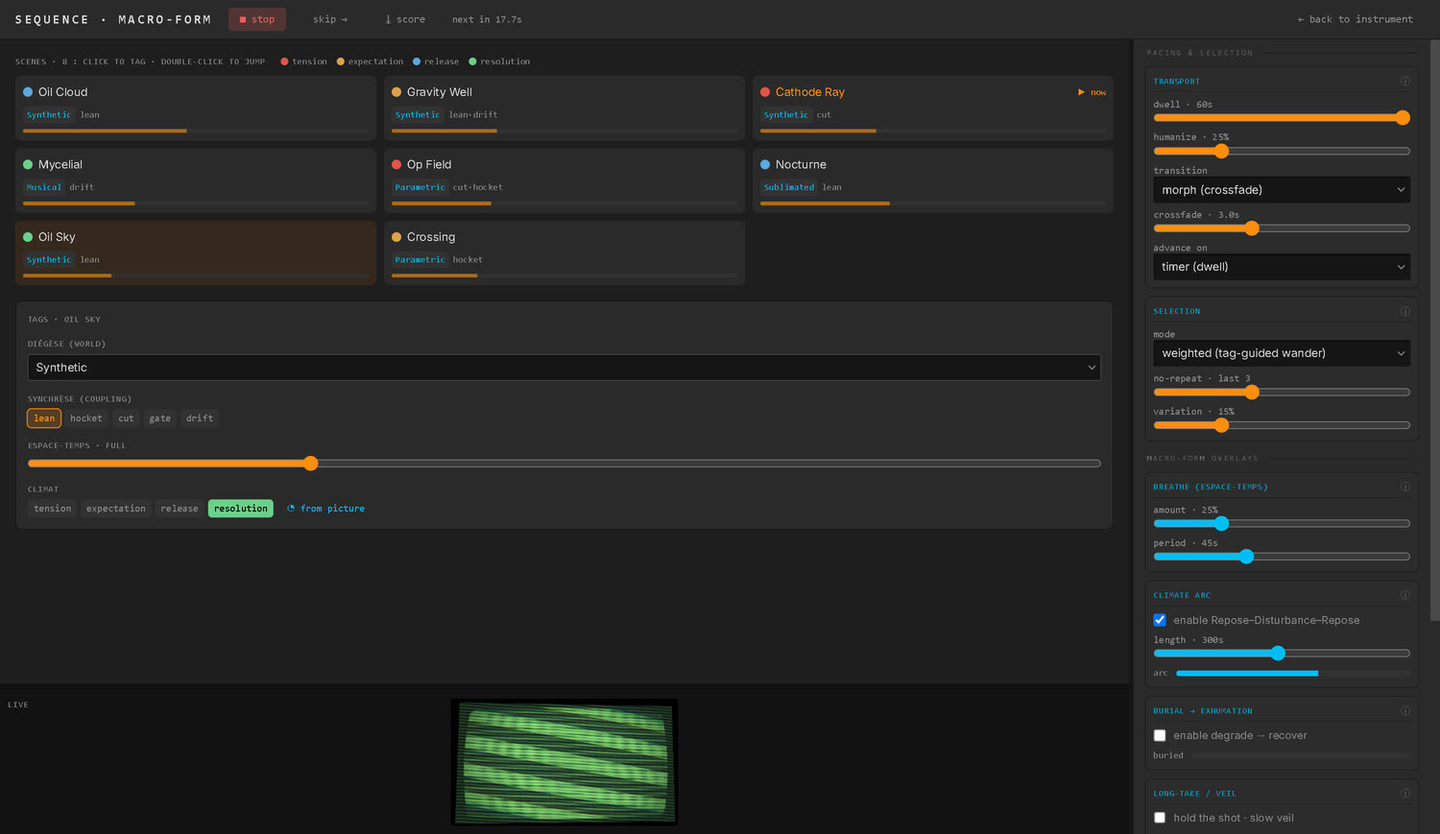
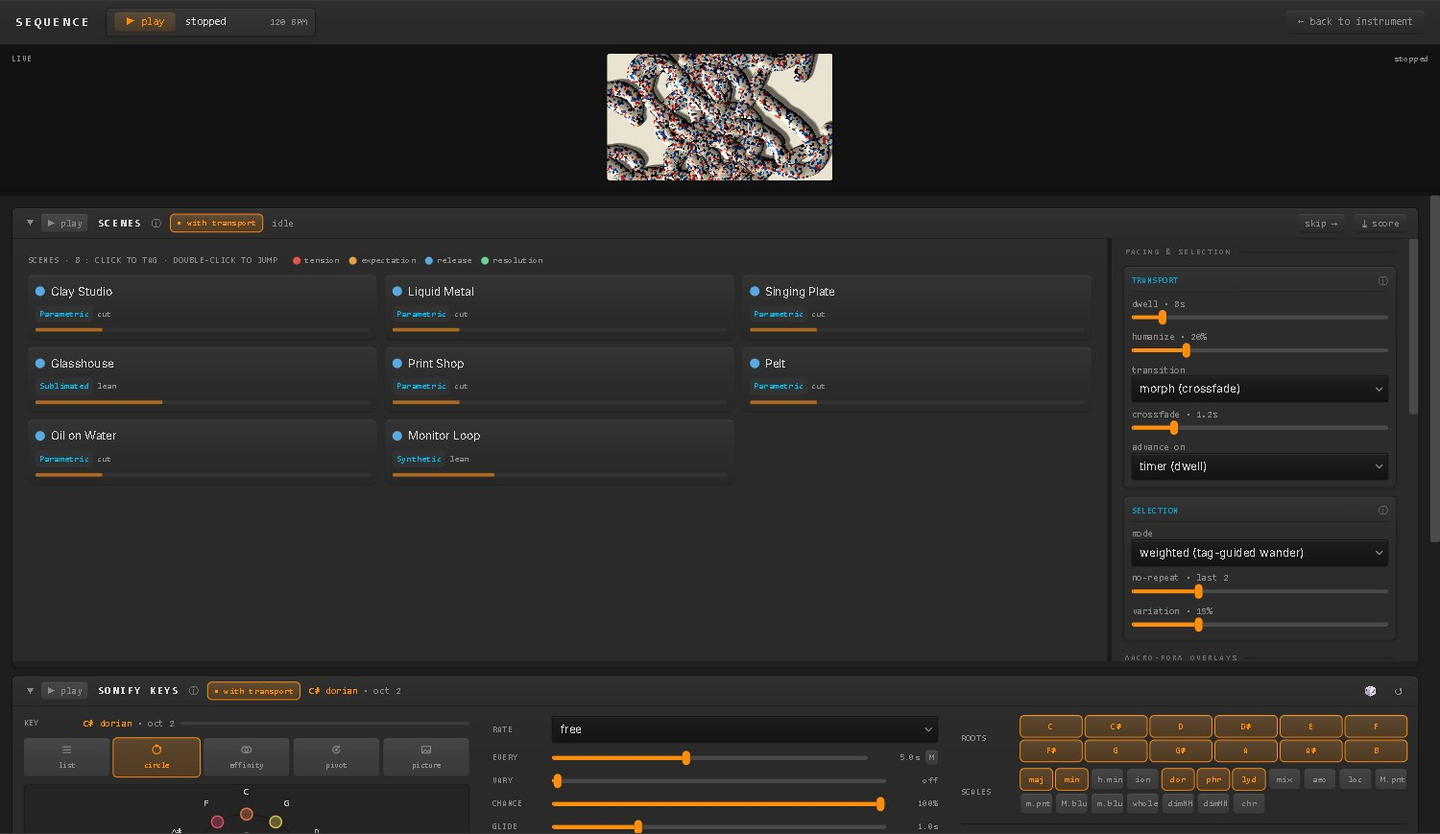
docs: catch up with v1.3.2 : gallery, interface stills, counts and the new pieces everywhere

diff --git a/docs/index.html b/docs/index.html
@@ -162,10 +162,10 @@
 
     <div class="specs">
       <div class="s"><span class="n"><em>4</em></span><span class="l">layers</span></div>
-      <div class="s"><span class="n"><em>47</em></span><span class="l">sources</span></div>
-      <div class="s"><span class="n"><em>56</em></span><span class="l">effects</span></div>
-      <div class="s"><span class="n"><em>11</em></span><span class="l">sonify voices</span></div>
-      <div class="s"><span class="n"><em>121</em></span><span class="l">one-click recipes</span></div>
+      <div class="s"><span class="n"><em>50</em></span><span class="l">sources</span></div>
+      <div class="s"><span class="n"><em>61</em></span><span class="l">effects</span></div>
+      <div class="s"><span class="n"><em>12</em></span><span class="l">sonify voices</span></div>
+      <div class="s"><span class="n"><em>147</em></span><span class="l">one-click recipes</span></div>
       <div class="s"><span class="n mono">OSC·MIDI·Link·body·mesh</span><span class="l">played by</span></div>
     </div>
 
@@ -226,6 +226,12 @@
       <figure><img src="images/shot-marbling.jpg" alt="Marbling"><figcaption><b>Marbling.</b> Drops of paint floating on water, each new one pushing the others into rings.</figcaption></figure>
       <figure><img src="images/shot-marbled-paper.jpg" alt="Marbled Paper"><figcaption><b>Marbled Paper.</b> Slow currents comb the paint into veins, like the endpapers of an old book.</figcaption></figure>
       <figure><img src="images/shot-night-bath.jpg" alt="Night Bath"><figcaption><b>Night Bath.</b> Bright inks on dark water, carried along by currents and swirls.</figcaption></figure>
+      <figure><img src="images/shot-liquid-metal.jpg" alt="Liquid Metal"><figcaption><b>Liquid Metal.</b> Strokes of molten chrome fusing where they cross, every reflection sliding along them as the lamp goes round.</figcaption></figure>
+      <figure><img src="images/shot-clay-studio.jpg" alt="Clay Studio"><figcaption><b>Clay Studio.</b> Rolls of modeling clay with real volume, laid on a pale table under one soft lamp.</figcaption></figure>
+      <figure><img src="images/shot-pelt.jpg" alt="Pelt"><figcaption><b>Pelt.</b> A coat of real hairs under a studio lamp, breathing in a slow wind.</figcaption></figure>
+      <figure><img src="images/shot-singing-plate.jpg" alt="Singing Plate"><figcaption><b>Singing Plate.</b> Sand on a vibrating plate, gathered on the still lines of the note it rings at.</figcaption></figure>
+      <figure><img src="images/shot-glasshouse.jpg" alt="Glasshouse"><figcaption><b>Glasshouse.</b> A soft world seen through rained-on glass, the color split at every edge.</figcaption></figure>
+      <figure><img src="images/shot-print-shop.jpg" alt="Print Shop"><figcaption><b>Print Shop.</b> The picture run off a press, its inks out of register on the screen.</figcaption></figure>
     </div>
   </section>
 
@@ -246,24 +252,24 @@
     <p class="section-lede">Palinopsia is one instrument with several rooms, each reached by a single key.</p>
     <div class="feat">
       <div class="card">
-        <img src="images/interface-sonify.jpg" alt="The Sonify page: the composite mirrored large with sound probes drawn on it, and the voice strips on the right.">
+        <img src="images/interface-sonify.jpg" alt="The Sonify page: the composite mirrored large, and the voices in their colored families on the right.">
         <div class="body">
           <h3>Sonify<span class="k">S</span></h3>
-          <p>The image itself synthesizes audio in real time, inside the app, no external software. Eleven voices (a scanning spectrogram, the frame as an oscillator, grain clouds off motion, struck edges, raster audification, SSTV, resonant filters, read heads that play the picture as data, a chord bank, a Collage's own films heard as a tuned sound collage through a Ring bank inspired by the S-4, and an Assemblage's own sound, cut with the picture) with a shared reverb/delay tail, an output EQ with presets, an effects sequencer, and a key sequencer that composes the key of the whole instrument over time. And every voice can take its place in the room : around a speaker dome, or as objects for SpatGRIS. Right-click the Sonify button to open the page in a window of its own.</p>
+          <p>The image itself synthesizes audio in real time, inside the app, no external software. Twelve voices (a scanning spectrogram, the frame as an oscillator, grain clouds off motion, struck edges, raster audification, SSTV, resonant filters, read heads that play the picture as data, a chord bank, a synthesizer the moving things in the picture play, a Collage's own films heard as a tuned sound collage through a Ring bank inspired by the S-4, and an Assemblage's own sound, cut with the picture) with a shared reverb/delay tail, an output EQ with presets, an effects sequencer, and a key sequencer that composes the key of the whole instrument over time. And every voice can take its place in the room : around a speaker dome, or as objects for SpatGRIS. Right-click the Sonify button to open the page in a window of its own.</p>
         </div>
       </div>
       <div class="card">
-        <img src="images/interface-sequencer.jpg" alt="The macro-form sequencer: tagged scenes across the top, a live monitor, and the transport column on the right.">
+        <img src="images/interface-sequencer.jpg" alt="The Seq page: the live picture on top, then one lane per sequencer (the tagged scenes with their pacing, the Sonify keys) under one transport.">
         <div class="body">
           <h3>Sequencer<span class="k">Q</span></h3>
-          <p>An auto-pilot over your scene bank. Tag each scene, then let it wander: weighted or climate-shaped selection, morph or cut transitions, and slow durational long-forms (Burial, Long-Take, Frame-Weave) that reshape the whole run over minutes. Right-click the Seq button to keep it in a window of its own, on another screen.</p>
+          <p>An auto-pilot over your scene bank. Tag each scene, then let it wander: weighted or climate-shaped selection, morph or cut transitions, and slow durational long-forms (Burial, Long-Take, Frame-Weave) that reshape the whole run over minutes. Right-click the Seq button to keep it in a window of its own, on another screen. The Seq page is the home of every sequencer : the scenes, the Sonify keys and the Body rule timeline, one lane each under one transport, with the live picture above them.</p>
         </div>
       </div>
       <div class="card">
         <img src="images/interface-modulation.jpg" alt="The modulation brain: eight modulators over the sixteen macro knobs and two XY pads.">
         <div class="body">
           <h3>Modulation brain<span class="k">D</span></h3>
-          <p>Eight modulators (LFOs, envelopes, chaos, a step sequencer with conditional steps and swing, Euclidean and Turing patterns, audio and vision followers, a body follower) and sixteen macro knobs (their row shows with the <b>MACRO</b> button, and they play hidden too) write on top of your values every frame. Dial a value by hand, then let a shape move it. Shape a binding with <b>⌇</b> : combine it with other modulators, keep only the real hits with a threshold, or integrate it so each beat pushes the value a notch and leaves it there. An audio modulator can even listen to a film's own soundtrack, where its playhead is. Everything answers to MIDI Learn and OSC too.</p>
+          <p>Eight modulators (LFOs, envelopes, chaos, a step sequencer with conditional steps and swing, Euclidean and Turing patterns, audio and vision followers, a body follower, a MIDI or OSC control in your hands) and sixteen macro knobs (their row shows with the <b>MACRO</b> button, and they play hidden too) write on top of your values every frame. Dial a value by hand, then let a shape move it. Shape a binding with <b>⌇</b> : combine it with other modulators, keep only the real hits with a threshold, or integrate it so each beat pushes the value a notch and leaves it there. An audio modulator can even listen to a film's own soundtrack, where its playhead is. Everything answers to MIDI Learn and OSC too.</p>
         </div>
       </div>
       <div class="card">
@@ -346,7 +352,7 @@
       </div>
       <div class="row">
         <p class="q">Paint on the picture with the mouse?</p>
-        <p class="a">Put <b>Marbling</b> on a layer and click the preview: a click drops paint right where you clicked, holding pours, dragging leaves a trail of drops, and the Inspector's <b>click tool</b> switches to a comb or a swirl. It lands where you click on the big preview too, through the keystone and on the dome. Each gesture is one undo and is kept with the session. On the Body page, <b>Pinch = click</b> lets each hand's pinch do the same, two hands at once.</p>
+        <p class="a">Put <b>Marbling</b> on a layer and click the preview: a click drops paint right where you clicked, holding pours, dragging leaves a trail of drops, and the Inspector's <b>click tool</b> switches to a comb or a swirl. It lands where you click on the big preview too, through the keystone and on the dome. Each gesture is one undo and is kept with the session. On the Body page, <b>Pinch = click</b> lets each hand's pinch do the same, two hands at once. <b>Relief</b> draws where you drag, <b>Fur</b> combs and parts, <b>Sand Plate</b> rings at a click, and the <b>Drape</b> effect lets you grab the cloth and let it fall.</p>
       </div>
       <div class="row">
         <p class="q">Move an effect from a layer to the master?</p>
@@ -386,7 +392,7 @@
       </div>
       <div class="row">
         <p class="q">Play it with my body?</p>
-        <p class="a">Press <kbd>B</kbd> for Body. Turn a webcam on (opt-in, off by default) and MediaPipe reads your hands, pose, face and silhouette: route any tracked feature into a modulator (each finger's curl and pinch, the hand's roll, how near it is), or author gesture rules that fire actions and OSC. Ten hand shapes fire rules, each hand on its own (fist, open, point, peace, thumb up, thumb down, ok, horns, call, gun); cover a screen zone with your shadow to trigger it, or fire on presence (someone walking into or out of frame) for an installation. A rule picks what it fires from some 250 actions in a searchable list. To keep the camera and the rules on another screen, right-click the Body button for <b>Body in a window</b>.</p>
+        <p class="a">Press <kbd>B</kbd> for Body. Turn a webcam on (opt-in, off by default) and MediaPipe reads your hands, pose, face and silhouette (turn on <b>Room</b> and the pose follows everyone in the frame, near or far): route any tracked feature into a modulator (each finger's curl and pinch, the hand's roll, how near it is), or author gesture rules that fire actions and OSC. Ten hand shapes fire rules, each hand on its own (fist, open, point, peace, thumb up, thumb down, ok, horns, call, gun); cover a screen zone with your shadow to trigger it, or fire on presence (someone walking into or out of frame) for an installation. A rule picks what it fires from some 250 actions in a searchable list. To keep the camera and the rules on another screen, right-click the Body button for <b>Body in a window</b>.</p>
       </div>
       <div class="row">
         <p class="q">Drive it from another app?</p>

diff --git a/src/renderer/src/components/ShortcutHelp.tsx b/src/renderer/src/components/ShortcutHelp.tsx
@@ -30,7 +30,7 @@ const GROUPS: Array<{ title: string; rows: Array<[string, string]> }> = [
       ['X', 'Fold Master FX'],
       ['I', 'Fold Inspector'],
       ['V', 'Big preview : fold the panels under it (and back)'],
-      ['Click the preview', 'Play on a source that takes a click (Marbling : a drop · hold : pour · drag : a trail; its comb tool : drag a stylus, ⇧-drag a five-tine comb) · Body’s Pinch = click : a pinch does the same']
+      ['Click the preview', 'Play on a source or effect that takes a click (Marbling : a drop · hold : pour · drag : a trail, its comb tool : drag a stylus, ⇧-drag a five-tine comb · Relief : drag to draw · Fur : drag to comb, click to part · Sand Plate : click rings it, drag a finger through the sand · Drape : grab the cloth, let go and it falls) · Body’s Pinch = click : a pinch does the same']
     ]
   },
   {
@@ -106,7 +106,8 @@ const GROUPS: Array<{ title: string; rows: Array<[string, string]> }> = [
       ['Right-click Body, Seq or Sonify', 'The page in a window of its own'],
       ['Right-click the Master FX', 'Save the chain as one of yours (my chains) · rename or delete them'],
       ['Right-click Load', 'Add the picked session as scenes · its earlier versions · link a folder of sessions'],
-      ['A steps card', 'Drag : draw the bars · click : rest / play · right-click a step : its condition · hold FILL (⇧-click : keep it on)']
+      ['A steps card', 'Drag : draw the bars · click : rest / play · right-click a step : its condition · hold FILL (⇧-click : keep it on)'],
+      ['The rule timeline (Seq)', 'Drag a rule onto its row or draw : a block · drag it to move, its ends to resize (⇧ : finer) · Alt-drag : a copy · double-click or Enter : exact · Delete : remove · Ctrl wheel : zoom']
     ]
   },
   {

diff --git a/docs/opsia-osc-reference.html b/docs/opsia-osc-reference.html
@@ -467,8 +467,8 @@
       <h2>Sonify</h2>
       <span class="sec-note">image → sound · v = voice</span>
     </div>
-    <p class="blurb">The image-to-sound engine speaks its own sub-namespace. The eleven voices are
-      <code>spectra · orbit · flow · events · raster · sstv · filter · signal · chord · collage · assemblage</code>
+    <p class="blurb">The image-to-sound engine speaks its own sub-namespace. The twelve voices are
+      <code>spectra · orbit · flow · events · raster · sstv · filter · signal · chord · collage · assemblage · synth</code>
       (<code>sstv</code> is the Transmission voice); each takes
       the same shape of address, so a controller can play any voice's probes, pitch and timbre. The
       patch also travels with sessions and scenes. <b>Index</b> addresses (the root octave, a reading

diff --git a/src/renderer/src/shaders/isf/inputHints.ts b/src/renderer/src/shaders/isf/inputHints.ts
@@ -98,6 +98,8 @@ export const INPUT_HINTS: Record<string, Record<string, string>> = {
     amount: 'How much of the effect.'
   },
   'node-drape': {
+    lightAngle: 'Where the lamp stands. Turn it and the light and the sheen slide across the folds.',
+    lightHeight: 'How high the lamp stands : low rakes across the folds, high lights the sheet from above.',
     mode: 'Hang : the top edge pinned (a curtain, a banner). Flag : the left side pinned, in the wind. Float : nothing pinned, the sheet drifts and always comes back.',
     size: 'How much of the frame the sheet covers. Changing it hangs a fresh sheet.',
     crumple: 'How creased the sheet starts (and after a reset).',

diff --git a/README.md b/README.md
@@ -42,6 +42,8 @@ racks, palette, World and macro biases : in one click.
 | ![Gravity Well](docs/images/shot-gravity-well.jpg)<br>**Gravity Well** : a floor of points sinking into a funnel, ringing with ripples | ![Line Wall](docs/images/shot-line-wall.jpg)<br>**Line Wall** : machine-cut bars laid on a wall that runs off to the side | ![Crossing](docs/images/shot-crossing.jpg)<br>**Crossing** : full-height bars, each leaning its own way |
 | ![Oil Cloud](docs/images/shot-oil-cloud.jpg)<br>**Oil Cloud** : one billowing cloud, ray-traced and painted in oil, warm toward the light, cool in its folds | ![Orbit](docs/images/shot-orbit.jpg)<br>**Orbit** : a figure of points circled in space, here a ring rolling through itself | ![Oil Sky](docs/images/shot-oil-sky.jpg)<br>**Oil Sky** : a cloudscape painted in thick oil, the light low behind it |
 | ![Marbling](docs/images/shot-marbling.jpg)<br>**Marbling** : drops of paint floating on water, each new one pushing the others into rings | ![Marbled Paper](docs/images/shot-marbled-paper.jpg)<br>**Marbled Paper** : slow currents comb the paint into veins, like the endpapers of an old book | ![Night Bath](docs/images/shot-night-bath.jpg)<br>**Night Bath** : bright inks on dark water, carried along by currents and swirls |
+| ![Liquid Metal](docs/images/shot-liquid-metal.jpg)<br>**Liquid Metal** : strokes of molten chrome fusing where they cross, every reflection sliding along them as the lamp goes round | ![Clay Studio](docs/images/shot-clay-studio.jpg)<br>**Clay Studio** : rolls of modeling clay with real volume, laid on a pale table under one soft lamp | ![Pelt](docs/images/shot-pelt.jpg)<br>**Pelt** : a coat of real hairs under a studio lamp, breathing in a slow wind |
+| ![Singing Plate](docs/images/shot-singing-plate.jpg)<br>**Singing Plate** : sand on a vibrating plate, gathered on the still lines of the note it rings at | ![Glasshouse](docs/images/shot-glasshouse.jpg)<br>**Glasshouse** : a soft world seen through rained-on glass, the color split at every edge | ![Print Shop](docs/images/shot-print-shop.jpg)<br>**Print Shop** : the picture run off a press, its inks out of register on the screen |
 
 *(The first two rows are from v1.0.0, the third from v1.2.6 (Lattice, Perspective and
 Lowercase's slant, each straight from its Space theme), the last from v1.3.0 : the
@@ -62,12 +64,12 @@ its Generate theme. The older shots stay in `docs/images/`.)*
 - [Video sources](#video-sources) : import (DXV/HAP/ProRes…) · transport · modulatable playhead · granulation · the clip's own sound (level, volume) · [sound files](#audio-sources) (Import audio)
 - [Collage](#collage--a-wall-of-films-key-source-gen-collage) : a wall of films cut up by the Autocutter partition · four shapes (cut-up, mosaic, torn, shaped) · stack · warp · folder or Assemble-bank feed
 - [The Transport bar](#the-transport-bar-bottom) · [Feel : the global macros](#feel--the-global-macros-key-g)
-- [Macro Controller](#macro-controller-16-knobs--xy-pads) (16 knobs + XY pads) · [Modulation brain](#modulation-brain-8-modulators--matrix) : 19 modulator types in five families · [shaping a binding](#shaping-a-binding--combine-threshold-integrate) : combine · threshold · integrate · [colors by their parts](#colors-by-their-parts) : hue · saturation · brightness · alpha
+- [Macro Controller](#macro-controller-16-knobs--xy-pads) (16 knobs + XY pads) · [Modulation brain](#modulation-brain-8-modulators--matrix) : 20 modulator types in six families · [shaping a binding](#shaping-a-binding--combine-threshold-integrate) : combine · threshold · integrate · [colors by their parts](#colors-by-their-parts) : hue · saturation · brightness · alpha
 - [Sequencer](#sequencer-key-q) (in the app, or in a window of its own) : lanes under one transport (scenes · Sonify keys · the Body rule timeline) · auto-pilot · long-forms (Burial · Long-Take · Frame-Weave)
 - [Worlds / diegesis](#worlds--diegesis-key-w) : the World editor · World amount
 - [Audio in](#audio-in) : analyser · monitoring · denoiser · Performance · [MIDI](#midi) : learn + clock/transport out · [Body : embodied control](#body--embodied-control-key-b) (in the app, or in a window of its own) · [Depth (2.5D)](#depth-25d) : the picture's own depth, by a model that ships in the app
 - [Output & mapping](#output--mapping-key-o) : the Output page (in the app, or in a window of its own) · **output transform** (the whole frame moved, turned, spun) · **fulldome** (210° domemaster, every mapping slider playable, 3D dome simulator) · composition size · light out (DMX/WLED) · installation · Flash safety
-- [Sonify : image to sound](#sonify--image-to-sound-key-s) (in the app, or in a window of its own) : twelve voices (Spectra · Orbit · Flow · Events · Synth · Raster · Transmission · Filter · Signal · Chord · Collage · Assemblage) · quantizer (18 scales) · output EQ + glue · audio in recordings · [Space](#space--the-voices-in-the-room) : the voices on a speaker dome, or as objects for SpatGRIS
+- [Sonify : image to sound](#sonify--image-to-sound-key-s) (in the app, or in a window of its own) : twelve voices (Spectra · Filter · Orbit · Raster · Transmission · Flow · Events · Signal · Chord · Synth · Collage · Assemblage) · quantizer (18 scales) · output EQ + glue · audio in recordings · [Space](#space--the-voices-in-the-room) : the voices on a speaker dome, or as objects for SpatGRIS
 - [Assemble : the automatic editor](#assemble--the-automatic-editor-key-e) : corpus point cloud · matching modes · cut pace + time curves · export
 - [Sessions, scenes & themes](#sessions-scenes--themes) : session media (relink · collect) · a session added as scenes · Generate (147 themes, and Init) · [Persistent](#persistent--what-stays-put) controls, layers, effects, sources and modulators · Set in every scene
 - [Metasurface](#metasurface--the-continuous-scene-space) · [Randomize & Vary](#randomize--vary) · [Undo](#undo)
@@ -309,7 +311,8 @@ place when it changes; **interface motion** in the **performance** tab turns bot
 **sources**, **effects** (yours included), **parameters** of what is loaded (every
 control of every source and effect, each effect's dry/wet, the layer and Mixer
 controls, the Background's, the 16 Macro knobs), **presets** (each shader's, yours, the
-layer, Mixer and Background ones), **master chains**, **Generate themes**, the
+layer, Mixer and Background ones), **master chains**, **Generate themes**, the **loops**
+(the Loop rack's recipes, onto the selected layer), the
 **pages** and tabs, and **commands** (Randomize, Vary, Panic flush, Black, Freeze, Record,
 MIDI Learn, Fulldome, New, Open, Undo, Redo). Results come in groups, each row saying
 where it will land; a row that can't apply is greyed and says why. The keyword tags
@@ -2040,7 +2043,10 @@ recordings and stills. Keystone warp is off in dome mode (a dome is mapped by it
   around, up to the zenith, sideways around the dome : **Ash** and **Optical Rain** fall
   outward, **Erosion** washes outward, **Streak**, **Light Trails** and
   **Murmuration**'s wind turn with each point's place, **Sync Loss** rolls outward with
-  ring-shaped tears, and **Tracking**'s band is a ring creeping up the walls. At the
+  ring-shaped tears, and **Tracking**'s band is a ring creeping up the walls.
+  **Rain on Glass**'s drops slide outward, **Fur** grows out from a crown at the zenith,
+  **Sand Plate** turns about the zenith (its tilt falls outward), **Relief**'s strokes melt
+  outward, and **Drape**'s sheet stays square. At the
   front they read as they do flat, and flat output is unchanged.
 - **Read through mipmaps, grain in the master's pixels** (any mapping) : where the
   mapping squeezes the frame (the full dome's four corner pinches, the panorama's zenith,
@@ -2725,16 +2731,20 @@ and bound to nothing : M1 a slow sine, M2 a triangle, M3 a square (on / off), M4
 (a rise and a drop), M5 random steps, M6 smooth random, M7 a looping envelope, M8 a slow
 ramp. The M beside any control binds one. It morphs in like any Generate; what you
 pinned and the session's mappings ride through, and Sonify is left as it is. Then a
-dropdown of **126 visual themes** in 18 families
+dropdown of **147 visual themes** in 18 families
 (Analog Video Synthesis, Glitch/Datamosh, Cameraless/Direct Film, Optical/Op-Art,
-Organic/Reaction-Diffusion, Data/Parametric, Feedback/Afterimage, **Frame Store** (Field
+Organic/Reaction-Diffusion, Data/Parametric, Feedback/Afterimage (Monitor Loop and Cross
+Loop : effects inside the feedback, two layers playing each other), **Frame Store** (Field
 Store and Revealed : stamps that never fade, a picture painted in by what moves; Shatter :
 motion broken into a pattern; Trail Crawl : bands of colour behind the motion; Store
 Zoom : a hardware zoom's uneven blocks), Cinematic/Atmospheric (Oil Sky : a cloudscape in
 thick oil, from Cloud Study), Retro Screen, Minimal/Structural, Datamosh &
 Compression (Codec Rot : a real video codec starved of keyframes, through Codec Mosh),
 **Living Surfaces** (lichen, rust, mold, burning paper, dry earth, grown textures, and
-paint on water from Marbling : Marbled Paper and Night Bath),
+paint on water from Marbling : Marbled Paper and Night Bath; Drapery, Liquid Metal, Mercury,
+Clay Studio, Engraver, Geometer, Soap Skin, Chrome Type, Holo Foil, Print Shop, Glasshouse and
+Oil on Water from Relief, Inflate, Drape, Thin Film, the glass and the print; Pelt, Big Cat,
+Gale and Furred Letters from Fur; Singing Plate, Listening Plate and Sand Over from Sand Plate),
 **Dome** (made for a fulldome : no vignette, nothing framing the edges, slow motion
 overhead), **Film Wall** (your own films through a Collage, graded and damaged, or cut
 out and piled at different heights in **Paste-Up**, or the people in them treated apart
@@ -2941,7 +2951,7 @@ Randomize sub-ranges and its own preset bank. Your own generators from the
 [Source Editor](#source-editor--your-own-shaders-alte) list first, under **my shaders**.
 
 <details>
-<summary><b>The full source catalogue (47)</b> (click to expand)</summary>
+<summary><b>The full source catalogue (50)</b> (click to expand)</summary>
 
 | Source | Description |
 |---|---|
@@ -3035,8 +3045,8 @@ compound on every pass, see [the layer stack](#the-layer-stack)), **Master FX**,
   Scanlines, CRT Screen, Rutt), **Blur**, **Codec** (datamosh and compression : Codec
   Mosh, Datamosh, Mosh Blocks, Compress, Databend, Byte Corrupt, Ringing), **Color**,
   **Convolution**, **Distortion**, **Feedback**, **Film** (Aperture, Grain), **Frame Store**
-  (Field Store, Shatter, Crawl, Store Zoom), **Glitch**, **Optical** (Phosphene, Pulfrich,
-  Optical Rain), **Stylize**, **Time** and **Utility**. Each unit has enable, dry/wet **opacity** (double-click → 1),
+  (Field Store, Shatter, Crawl, Store Zoom), **Glass** (Glass, Rain on Glass), **Glitch**,
+  **Optical** (Phosphene, Pulfrich, Optical Rain), **Print** (Dither, Halftone, Riso), **Stylize**, **Time** and **Utility**. Each unit has enable, dry/wet **opacity** (double-click → 1),
   drag-reorder, presets, a dice `⚄`, and a **reset `↺`** (the whole effect back to
   its defaults).
 - **Right-click any effect** (its chip, or its name in the Inspector) to **copy**
@@ -3060,8 +3070,8 @@ compound on every pass, see [the layer stack](#the-layer-stack)), **Master FX**,
   finishing units at its end; the chain's effects run underneath across the whole width,
   wrapping under the finishing too when the chain is long (an empty chain : one line).
 - **Master chain presets** : the `chain presets…` box in the Master FX strip replaces the
-  whole master chain with one of **134** designed chains and sets the Vibe to match (the
-  finalizers stay). The newer ones sit in eight groups : **Time & memory** (Réponse,
+  whole master chain with one of **154** designed chains and sets the Vibe to match (the
+  finalizers stay). The newer ones sit in eleven groups : **Time & memory** (Réponse,
   Sediment, Chronoscan, Eternalism, Afterimage, Decimate, Corrode, Feedback on the master
   bus), **Frame Store** (Field Store : Hard Memory, Sixteen Levels, Strobe Ghost; then
   Shatter, Crawl and Store Zoom, alone or in pairs), **Node recipes** (a node that reads another
@@ -3075,7 +3085,12 @@ compound on every pass, see [the layer stack](#the-layer-stack)), **Master FX**,
   dithered print) and **People** (the Silhouette effect on the whole picture : Shadow
   Play, its people blacked out like shadow puppets; Ghost Dancer, echoes of them left over
   the picture; Absence, the people taken out; Glass Bodies, translucent blue figures;
-  Outline, their contour drawn on black); they keep the scene's palette mix. The `chain on/off` pill beside
+  Outline, their contour drawn on black), **Relief** (the new surfaces on the whole picture :
+  Hung Picture and Picture in the Wind on Drape's cloth, Foil Everything, Newsprint, CMYK
+  Press, Riso Zine, Ink on Paper, Behind Fluted Glass, Rainy Window, Chrome Everything,
+  Flowing Picture, Oil on Everything, Soap Picture, Studio Relief), **Fur** (Studio Hide,
+  Flash Photo, Faded Rug) and **Sand plate** (Macro Plate, Blueprint, Wet Print); they keep
+  the scene's palette mix. The `chain on/off` pill beside
   it bypasses every master effect except the finalizers.
 - **Your own chains (my chains)** : right-click the Master FX strip (its empty space, or
   any effect's chip : its menu ends with the same entry) and choose **Save chain as
@@ -3092,7 +3107,7 @@ compound on every pass, see [the layer stack](#the-layer-stack)), **Master FX**,
 - **The source pickers have sections** : **Live** (imports, cameras, captures, network
   streams, and 👤 **Silhouette**, the body cut out of the room), **Organic** (living
   matter : reaction, growth, water, fire, ground), **Painted** (Oil Cloud, Cloud Study,
-  Marbling),
+  Marbling, Relief), **loops** (↻ : a layer's picture, the Loop source),
   **Analog** (the analog video-synth lineage : RGB Oscillators, Sync Osc, Slit Scan, Ramps,
   Column Scan, Differential, Interference), **Geometry** (lines, grids, dots and shapes :
   Contour, Direct Marks, Grid Drift, Lattice, Lowercase, Op-Art, Recurse, Shapes, Slabs,
@@ -3214,7 +3229,7 @@ labelled picker in the Inspector (**map**, **control**, **palette**; the three-i
 none is picked, so all five run in any rack.
 
 <details>
-<summary><b>The full node catalogue (28)</b> (click to expand)</summary>
+<summary><b>The full node catalogue (30)</b> (click to expand)</summary>
 
 | Node | Description |
 |---|---|
@@ -3930,7 +3945,11 @@ src/
               MIDI learn share (actions.ts, listed by triggerCatalog.ts), the
               preview's clicks routed to a source (pointerInput.ts), your own
               master chains (userChains.ts), a session added as scenes
-              (sessionScenes.ts); the page windows in components/PageWindow.tsx
+              (sessionScenes.ts); the page windows in components/PageWindow.tsx;
+              the layer's four racks (layerRack.ts), the Loop rack's recipes
+              (loopRecipes.ts), Black (black.ts), OSC Learn and the learned
+              mappings (oscLearn.ts, mappingModel.ts), the interface glass
+              (glass.ts)
     engine/   Compositor (per-layer ISF → blend → stack), modulation engine
               (the steps sequencer's model in stepSeq.ts), audio bus, coupling,
               Feel macros + Proximity, macro-form sequencer,
@@ -3948,13 +3967,21 @@ src/
               World amount (worldAmount.ts), the clip player and the clip-sound
               reader (clipPlayer.ts, clipAudio.ts), strobe limiter, output shaper,
               the output transform (outXform.ts), PBR, the fulldome stage
-              (dome.ts), the capture rings that feed
+              (dome.ts), Relief, Fur and Sand Plate (ReliefSource.ts,
+              FurSource.ts, SandPlateSource.ts; their shared materials in
+              reliefShade.ts, their multisample buffer in sharedMsaa.ts), the
+              Drape, Inflate and Silhouette nodes (drapeNode.ts, inflateNode.ts,
+              silhouetteNode.ts), the loop's delay ring (loopDelay.ts), the Room
+              tracker (roomTracker.ts), the controller bus (controlBus.ts), color
+              parts (colorParts.ts), the body clutch (bodyClutch.ts), the rule
+              timeline (ruleSeq.ts), the capture rings that feed
               every output (frameCapture.ts) and the small readback rings that
               turn the picture back into control data : vision, Sonify taps,
               depth, light zones, the mark scanline (gridReadback.ts)
     workers/  off the render thread : Marbling's water (marbleWorker.ts), the depth
               model (depthWorker.ts), DXV3 frames (dxvWorker.ts), the projector
-              relay (streamRelay.ts)
+              relay (streamRelay.ts), the Room tracker's pose model (poseWorker.ts),
+              the Body camera's motion field (flowWorker.ts)
     shaders/  ISF .fs files + registry (curated ranges) + presets, shared GLSL pasted
               at an include line (lib/ : dome.glsl at `// @dome`, the Finalizer's
               grain finalGrain.glsl at `// @grain`, the organic point outlines of
@@ -3962,8 +3989,11 @@ src/
               shaders (userShaders.ts) and the compile + lint check the Source
               Editor and the Agent share (shaderCheck.ts)
     audio/    the Sonify engine : AudioWorklet + voice managers + auto-voice,
-              the Audio Layer (audioLayer.ts), and Space (space.ts : the voices
-              placed on speakers or sent as objects; the panning in shared/spatial.ts)
+              the Audio Layer (audioLayer.ts), Space (space.ts : the voices
+              placed on speakers or sent as objects; the panning in shared/spatial.ts),
+              the Synth (synth.engine.js in the worklet, its play side synthPlay.ts,
+              its factory sounds synthPatches.ts) and Signal's Picture Play
+              (signalPlay.ts)
     assemble/ the corpus matcher : descriptor costs, live matching, PCA map
     mcp/      the Agent's tools, run through the same store actions as the UI
   shared/     types shared across processes (incl. the descriptor definitions,
@@ -3999,7 +4029,8 @@ set : never an open-ended pile of knobs.
 
 *Not a clip-launcher VJ app · not a node patcher · not a timeline compositor · not a
 3D engine (Lattice and Perspective put points and planes in space through a fixed set of
-controls : there is no scene to build) · not defined by analog-video-synth emulation ·
+controls : there is no scene to build; Drape hangs the picture on one cloth, Relief and
+Inflate light a height, Fur grows one coat) · not defined by analog-video-synth emulation ·
 not cheap psychedelia.*
 
 ---

diff --git a/CHANGELOG.md b/CHANGELOG.md
@@ -5,6 +5,21 @@ that CI builds into cross-platform releases.
 
 ## Unreleased
 
+### Docs
+
+- **The docs catch up with v1.3.2** (after publishing, the sweep) : six new gallery frames
+  from Generate (Liquid Metal, Clay Studio, Pelt, Singing Plate, Glasshouse, Print Shop :
+  README and site), the seven interface stills retaken on the liquid-glass interface (same
+  subjects and sizes; the Seq page, Sonify's families, the scene bank built from eight
+  themes), and an audit of every doc against the release : the README's catalogue counts
+  (50 sources, 30 nodes, 154 chains in eleven groups, 147 themes, 20 modulator types in six
+  families), the Glass and Print effect groups, the loops source group, the new themes and
+  chains, Ctrl+K's loops, the dome behavior of the new pieces, the Architecture map, the
+  guardrails; the site's hero figures (50 / 61 / 12 / 147), its Sonify, Modulation, Seq,
+  Body and click-to-play cards; the OSC reference's twelve voices; the cheat-sheet's
+  click-to-play row (Relief, Fur, Sand Plate, Drape) and the rule timeline's gestures; the
+  two hints Drape lacked (light angle, light height).
+
 ## v1.3.2 — 2026-11-08
 
 **The bar sliders are set aside, banked** (Vincent, 11-02 : "go back to the old sliders
